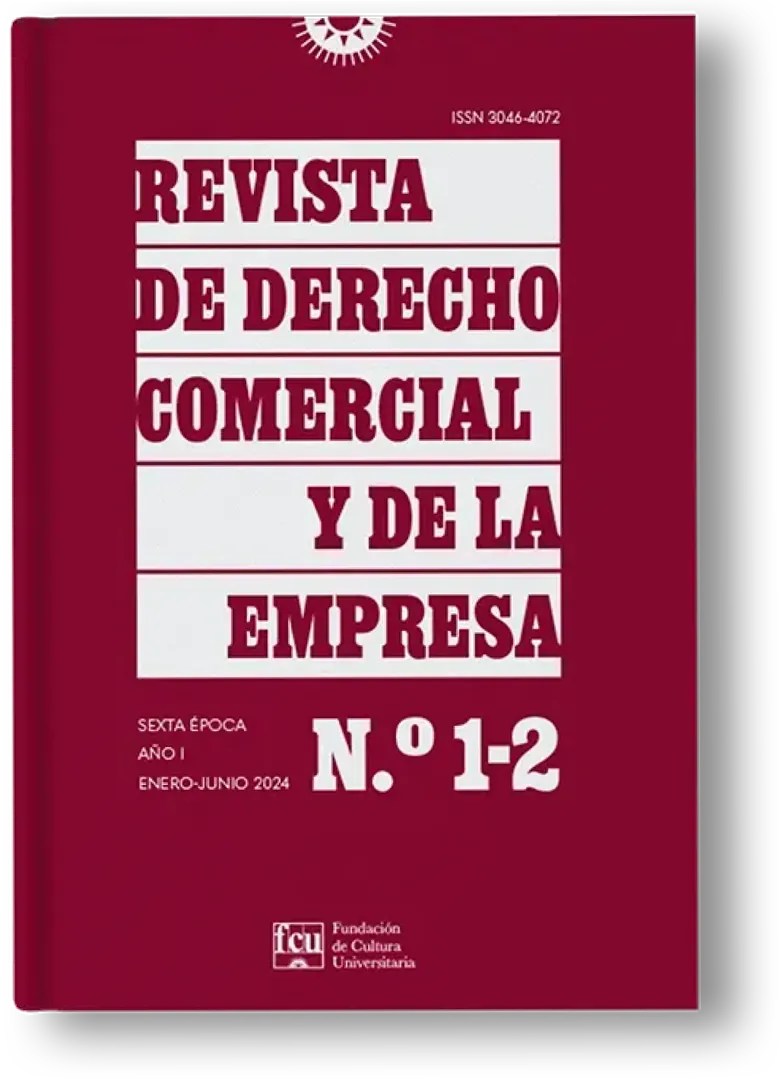
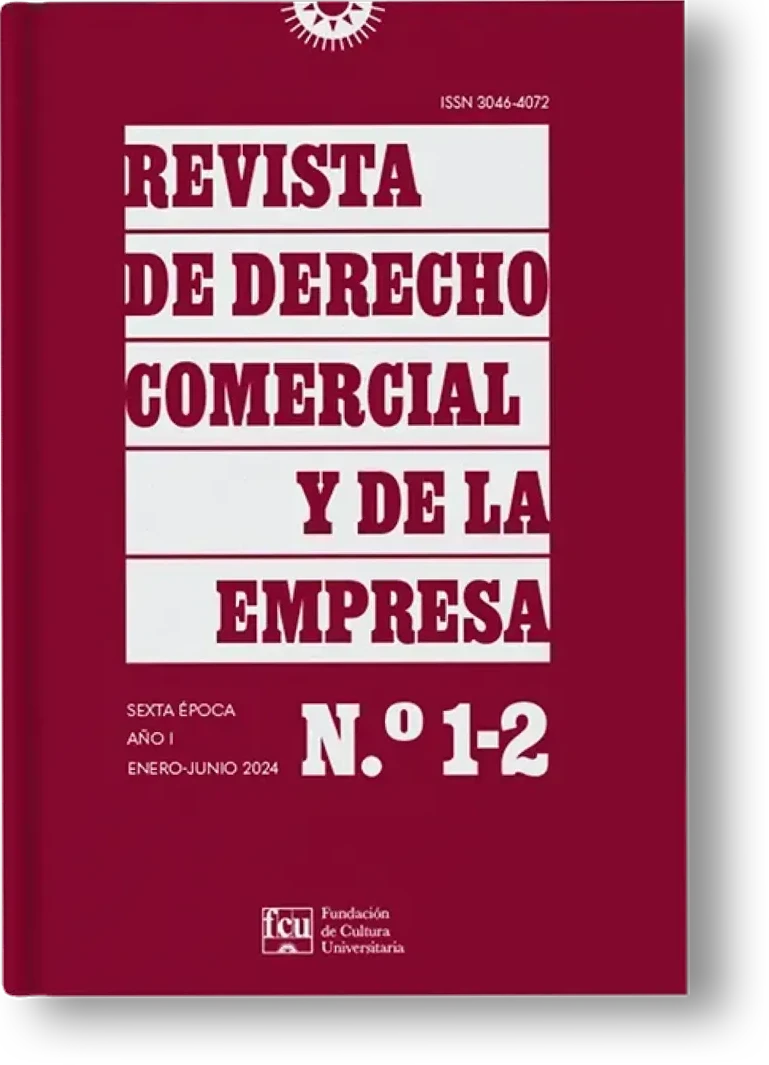
Flip ground shadow (final) + cover left-edge alignment
- Archive flip-open: replace the interim back-face box-shadow with
  .archivo-ground — a radial shadow plane anchored per-book via
  --ground-right (computed from each cover's opening angle) that falls
  on the page background and the neighboring magazine; opacity+scaleX
  only, same per-book duration and split easings as the cover, hidden
  under reduced motion. Flat translateZ overlays and rotated-face
  box-shadows both fail here (notes in code).
- Cover assets: trim the baked shadow's left/top padding (9-11px/15px)
  so the book's solid edge starts at the image edge; keep the
  right/bottom shadow. object-left on the object-contain renders stops
  pillarboxing from re-centering the asset, so the visible book edge
  now sits on the content grid on the detail pages and archive rows.

Claude-Session: https://claude.ai/code/session_01RmCJAHnbq1BDnbz1rjXvbh

diff --git a/components/PublicacionesArchivo.tsx b/components/PublicacionesArchivo.tsx
@@ -81,10 +81,18 @@ function bookJitter(seed: number) {
     h ^= h >>> 16;
     return ((h >>> 0) % 100000) / 100000; // [0,1)
   };
+  const angle = 150 + Math.round(rnd(1) * 22); // 150–172° open
   return {
-    angle: 150 + Math.round(rnd(1) * 22), // 150–172° open
+    angle,
     tilt: +((rnd(2) * 2 - 1) * 1.3).toFixed(2), // −1.3…+1.3° resting tilt
     dur: 460 + Math.round(rnd(3) * 150), // 460–610ms
+    // How far (as a % of the book's own width) the open cover's free edge
+    // reaches to the left of the spine — |cos(angle)|, since the cover is
+    // hinged on the left and rotates flat toward the viewer. Anchors the
+    // ground/neighbor shadow (.archivo-ground) right at each book's actual
+    // tip instead of guessing an average, so it never overlaps (and gets
+    // hidden behind) the opaque open cover.
+    reach: Math.abs(Math.cos((angle * Math.PI) / 180)),
   };
 }
 
@@ -257,6 +265,7 @@ export default function PublicacionesArchivo({ years }: { years: ArchivoYear[] }
                   "--open": `${book.angle}deg`,
                   "--tilt": `${book.tilt}deg`,
                   "--dur": `${book.dur}ms`,
+                  "--ground-right": `${(100 * (1 + book.reach)).toFixed(1)}%`,
                 } as CSSProperties;
                 const bookClass =
                   "archivo-book group relative mx-auto aspect-[729/1000] w-[82%] max-w-[160px] hover:z-20";
@@ -281,6 +290,7 @@ export default function PublicacionesArchivo({ years }: { years: ArchivoYear[] }
                       />
                     )}
                     <span className="archivo-cast" aria-hidden="true" />
+                    <span className="archivo-ground" aria-hidden="true" />
                     <span className="archivo-cover">
                       <Image
                         className="archivo-front"
@@ -491,6 +501,30 @@ export default function PublicacionesArchivo({ years }: { years: ArchivoYear[] }
           transition: opacity var(--dur, 520ms) cubic-bezier(0.4, 0, 0.2, 1),
                       transform var(--dur, 520ms) cubic-bezier(0.4, 0, 0.2, 1);
         }
+        /* Ground + neighbor shadow: as the cover lifts open, a soft shadow
+           fades in over the page background and onto whichever magazine
+           sits in the neighboring cell — grounding the cover as something
+           physically lifted above the page. --ground-right anchors this
+           element's right edge to each book's own tip (the open cover's
+           free edge, computed per-book from --open in bookJitter), so it
+           starts exactly where the opaque cover ends instead of guessing
+           an average — a flat plane sized to overlap the cover itself would
+           just get hidden behind it (it swings to a higher, viewer-facing
+           depth). No 3D transform here on purpose: this element sits outside
+           .archivo-inner's own box (right can exceed 100%), and combining
+           that with translateZ inside a preserve-3d ancestor silently drops
+           the paint in Chromium — confirmed by testing, not assumed. Plain
+           2D scale is enough; --dur/easing keep it moving with the cover. */
+        .archivo-ground {
+          position: absolute; top: 4%; bottom: 4%;
+          right: var(--ground-right, 6%); width: 85%;
+          pointer-events: none; opacity: 0;
+          transform: scaleX(0.7);
+          transform-origin: right center;
+          background: radial-gradient(ellipse 130% 100% at right center, rgba(40,22,10,.32), rgba(40,22,10,.22) 32%, rgba(40,22,10,.08) 62%, transparent 88%);
+          transition: opacity var(--dur, 520ms) cubic-bezier(0.4, 0, 0.2, 1),
+                      transform var(--dur, 520ms) cubic-bezier(0.4, 0, 0.2, 1);
+        }
         .archivo-cover {
           position: absolute; inset: 0;
           transform-origin: left center;
@@ -506,28 +540,12 @@ export default function PublicacionesArchivo({ years }: { years: ArchivoYear[] }
           backface-visibility: hidden;
           box-shadow: 0 8px 18px rgba(0,0,0,.18), 0 0 0 1px rgba(0,0,0,.05);
         }
-        /* The exposed inside-cover (back face) already carries the whole
-           opened cover's weight in this design — it swings to nearly face
-           the viewer and its outer edge lands past the neighboring book (see
-           .archivo-cover rotation above), so it's the one surface that can
-           cast a believable shadow onto the ground/neighbor: a soft shadow
-           offset toward the outer edge (away from the spine), which the
-           cover's own rotation carries out past its edge and onto whatever
-           sits there. A flat sibling shadow layer can't do this — it would
-           sit at a fixed depth and get hidden behind this rotated, opaque
-           panel instead of appearing to fall past it.
-           The offset is negative: this face is rotated 180deg relative to
-           its parent .archivo-cover (itself rotated ~-160deg on hover), and
-           that compound rotation mirrors the local x-axis — a positive
-           offset here would land the shadow back toward the spine instead
-           of out past the tip. Verified visually, not guessed. */
         .archivo-back {
           position: absolute; inset: 0;
           backface-visibility: hidden;
           transform: rotateY(180deg);
           background: #e9e6dd;
-          box-shadow: inset 0 0 44px rgba(60,40,20,.14), -22px 4px 32px -6px rgba(40,22,10,0);
-          transition: box-shadow var(--dur, 520ms) cubic-bezier(0.4, 0, 0.2, 1);
+          box-shadow: inset 0 0 44px rgba(60,40,20,.14);
         }
         .archivo-back::after {
           content: ""; position: absolute; inset: 0;
@@ -566,9 +584,11 @@ export default function PublicacionesArchivo({ years }: { years: ArchivoYear[] }
             transition: opacity var(--dur, 520ms) cubic-bezier(0.34, 1.25, 0.5, 1),
                         transform var(--dur, 520ms) cubic-bezier(0.34, 1.25, 0.5, 1);
           }
-          .archivo-book:hover .archivo-back {
-            box-shadow: inset 0 0 44px rgba(60,40,20,.14), -22px 4px 32px -6px rgba(40,22,10,.24);
-            transition: box-shadow var(--dur, 520ms) cubic-bezier(0.34, 1.25, 0.5, 1);
+          .archivo-book:hover .archivo-ground {
+            opacity: 1;
+            transform: scaleX(1);
+            transition: opacity var(--dur, 520ms) cubic-bezier(0.34, 1.25, 0.5, 1),
+                        transform var(--dur, 520ms) cubic-bezier(0.34, 1.25, 0.5, 1);
           }
           .archivo-book:hover .archivo-hint {
             opacity: 1; transform: translateZ(1px) scale(1);
@@ -578,10 +598,7 @@ export default function PublicacionesArchivo({ years }: { years: ArchivoYear[] }
           .archivo-cover { transition: none; }
           .archivo-book:hover .archivo-cover { transform: none; }
           .archivo-cast { display: none; }
-          .archivo-back {
-            box-shadow: inset 0 0 44px rgba(60,40,20,.14);
-            transition: none;
-          }
+          .archivo-ground { display: none; }
           /* No flip → the inside page never exposes, so the hint would float
              over a closed cover. Hide it; the book is still a button. */
           .archivo-hint { display: none; }

diff --git a/app/revistas/page.tsx b/app/revistas/page.tsx
@@ -80,8 +80,8 @@ export default function RevistaPage() {
                   <Image
                     src={currentIssue.cover}
                     alt={`${currentIssue.number} (${currentIssue.year})`}
-                    width={779}
-                    height={1080}
+                    width={770}
+                    height={1065}
                     priority
                     className="h-auto w-64 sm:w-72 lg:w-[380px]"
                   />
@@ -118,7 +118,7 @@ export default function RevistaPage() {
                           alt={`${issue.number} (${issue.year})`}
                           fill
                           sizes="190px"
-                          className="object-contain"
+                          className="object-contain object-left"
                         />
                       )}
                     </Link>

diff --git a/app/revistas/[slug]/IssueClient.tsx b/app/revistas/[slug]/IssueClient.tsx
@@ -88,7 +88,7 @@ export default function IssueClient(props: IssueClientProps) {
                     alt={`${issue.number} (${issue.year})`}
                     fill
                     sizes="(min-width: 1024px) 300px, 100vw"
-                    className="object-contain"
+                    className="object-contain object-left"
                   />
                 )}
               </div>
